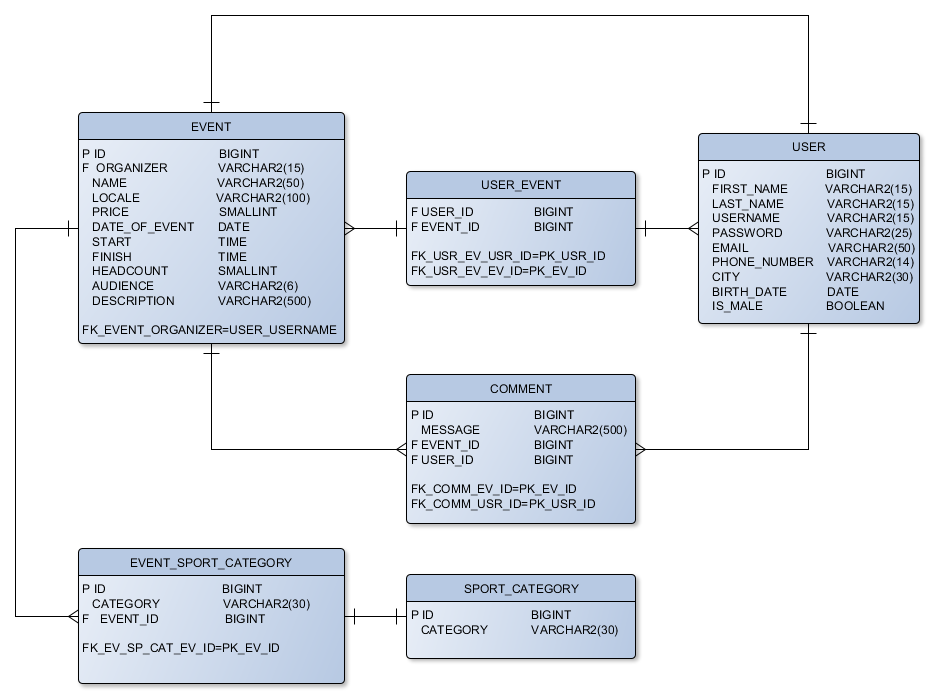
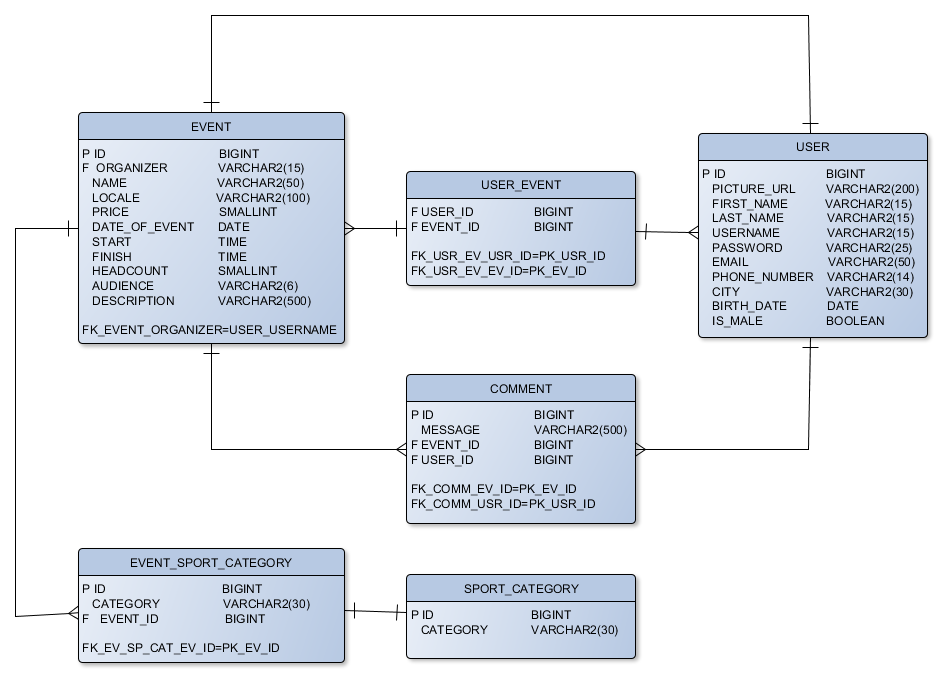
Database updated

diff --git a/sport_mates/src/main/java/app/sport_mates/controller/EventController.java b/sport_mates/src/main/java/app/sport_mates/controller/EventController.java
@@ -1,0 +1,81 @@
+package app.sport_mates.controller;
+
+import org.springframework.web.bind.annotation.RestController;
+import org.springframework.web.bind.annotation.RequestBody;
+import org.springframework.web.bind.annotation.RequestMapping;
+import org.springframework.beans.factory.annotation.Autowired;
+import org.springframework.web.bind.annotation.RequestMethod;
+import app.sport_mates.model.Event;
+import app.sport_mates.service.EventService;
+import app.sport_mates.util.Response;
+import java.sql.Date;
+import java.sql.Time;
+import java.util.Optional;
+
+class NewEvent {
+    private String name;
+    private String locale;
+    private short price;
+    private Date dateOfEvent;
+    private Time start;
+    private Time finish;
+    private short headcount;
+    private String audience;
+    private String description;
+
+    public String getName() {
+        return name;
+    }
+    
+    public String getLocale() {
+        return locale;
+    }
+
+    public short getPrice() {
+        return price;
+    }
+
+    public Date getDateOfEvent() {
+        return dateOfEvent;
+    }
+
+    public Time getStart() {
+        return start;
+    }
+
+    public Time getFinish() {
+        return finish;
+    }
+
+    public short getHeadcount() {
+        return headcount;
+    }
+
+    public String getAudience() {
+        return audience;
+    }
+    
+    public String getDescription() {
+        return description;
+    }
+}
+
+@RestController
+@RequestMapping("/event")
+public class EventController{
+    
+    @Autowired()
+    private EventService eventService;
+
+    @RequestMapping(value= "/add", method=RequestMethod.POST, consumes="application/json")
+    public Response<String> add(@RequestBody NewEvent newEvent)
+    {
+        Optional<Event> optionalEvent = eventService.addNewEvent(newEvent.getName(), newEvent.getLocale(),
+                                                           newEvent.getPrice(), newEvent.getDateOfEvent(), 
+                                                           newEvent.getStart(), newEvent.getFinish(),
+                                                           newEvent.getHeadcount(), newEvent.getAudience(),
+                                                           newEvent.getDescription());
+                                        
+        return optionalEvent.isPresent() ? Response.ok("Event: ok") : Response.error("Event: error");
+    }
+}

diff --git a/sport_mates/src/main/java/app/sport_mates/controller/CommentController.java b/sport_mates/src/main/java/app/sport_mates/controller/CommentController.java
@@ -1,0 +1,50 @@
+package app.sport_mates.controller;
+
+import org.springframework.web.bind.annotation.RestController;
+import org.springframework.web.bind.annotation.RequestBody;
+import org.springframework.web.bind.annotation.RequestMapping;
+import org.springframework.beans.factory.annotation.Autowired;
+import org.springframework.web.bind.annotation.RequestMethod;
+
+import app.sport_mates.model.Comment;
+import app.sport_mates.model.Event;
+import app.sport_mates.model.User;
+import app.sport_mates.service.CommentService;
+import app.sport_mates.util.Response;
+import java.util.Optional;
+
+class NewComment {
+    private String message;
+    private Event eventId;
+    private User userId;
+
+    public String getMessage() {
+        return message;
+    }
+
+    public Event getEventId() {
+        return eventId;
+    }
+
+    public User getUserId() {
+        return userId;
+    }
+}
+
+@RestController
+@RequestMapping("/comment")
+public class CommentController{
+    
+    @Autowired()
+    private CommentService commentService;
+
+    @RequestMapping(value= "/add", method=RequestMethod.POST, consumes="application/json")
+    public Response<String> add(@RequestBody NewComment newComment)
+    {
+        Optional<Comment> optionalComment = commentService.addNewComment(newComment.getMessage(),
+                                                                         newComment.getEventId(),
+                                                                         newComment.getUserId());
+                                        
+        return optionalComment.isPresent() ? Response.ok("Comment: ok") : Response.error("Comment: error");
+    }
+}

diff --git a/sport_mates/src/main/java/app/sport_mates/service/EventService.java b/sport_mates/src/main/java/app/sport_mates/service/EventService.java
@@ -1,0 +1,44 @@
+package app.sport_mates.service;
+
+import org.springframework.stereotype.Service;
+import org.springframework.beans.factory.annotation.Autowired;
+
+import app.sport_mates.repository.EventRepository;
+import app.sport_mates.model.Event;
+
+import java.sql.Date;
+import java.sql.Time;
+import java.util.Optional;
+
+@Service
+public class EventService {
+
+    @Autowired()
+    private EventRepository eventRepository;
+
+    public Optional<Event> addNewEvent(String name,
+                                      String locale,
+                                      short price,
+                                      Date dateOfEvent,
+                                      Time start,
+                                      Time finish,
+                                      short headcount,
+                                      String audience,
+                                      String description){
+        Event event = new Event();
+
+        event.setName(name);
+        event.setLocale(locale);
+        event.setPrice(price);
+        event.setDateOfEvent(dateOfEvent);
+        event.setStart(start);
+        event.setFinish(finish);
+        event.setHeadcount(headcount);
+        event.setAudience(audience);
+        event.setDescription(description);
+        
+        eventRepository.save(event);
+
+        return Optional.of(event);
+    }
+}

diff --git a/sport_mates/src/main/java/app/sport_mates/controller/UserController.java b/sport_mates/src/main/java/app/sport_mates/controller/UserController.java
@@ -77,7 +77,7 @@ class RegUser {
 @RequestMapping("/user")
 public class UserController{
 
-    @Autowired(required = true)
+    @Autowired()
     private UserService userService;
 
     @RequestMapping(value= "/login", method=RequestMethod.POST, consumes="application/json")
@@ -87,11 +87,10 @@ public class UserController{
 
         if(optionalUser.isPresent()){
             User loggedUser = optionalUser.get();
-
             return Response.ok(loggedUser); 
         }
 
-        return Response.error("Helytelen felhasznalonev vagy jelszo");
+        return Response.error("User: error - authentication");
     }
 
     @RequestMapping(value= "/register", method=RequestMethod.POST, consumes="application/json")
@@ -107,6 +106,6 @@ public class UserController{
             return Response.ok(user); 
         }
 
-        return Response.error("A felhasznalonev mar hasznalatban van");
+        return Response.error("User: error - unique");
     }
 }

diff --git a/sport_mates/src/main/java/app/sport_mates/service/CommentService.java b/sport_mates/src/main/java/app/sport_mates/service/CommentService.java
@@ -1,0 +1,31 @@
+package app.sport_mates.service;
+
+import org.springframework.stereotype.Service;
+import org.springframework.beans.factory.annotation.Autowired;
+
+import app.sport_mates.repository.CommentRepository;
+import app.sport_mates.model.Comment;
+import app.sport_mates.model.Event;
+import app.sport_mates.model.User;
+import java.util.Optional;
+
+@Service
+public class CommentService {
+
+    @Autowired()
+    private CommentRepository commentRepository;
+
+    public Optional<Comment> addNewComment(String message,
+                                         Event eventId,
+                                         User userId){
+        Comment comment = new Comment();
+
+        comment.setMessage(message);
+        comment.setEventId(eventId);
+        comment.setUserId(userId);
+        
+        commentRepository.save(comment);
+
+        return Optional.of(comment);
+    }
+}

diff --git a/sport_mates/src/main/java/app/sport_mates/model/Event.java b/sport_mates/src/main/java/app/sport_mates/model/Event.java
@@ -136,4 +136,40 @@ public class Event {
     public Set<User> getUsers() {
         return users;
     }
+
+    public void setName(String name) {
+        this.name = name;
+    }
+
+    public void setLocale(String locale) {
+        this.locale = locale;
+    }
+
+    public void setPrice(short price) {
+        this.price = price;
+    }
+    
+    public void setDateOfEvent(Date dateOfEvent) {
+        this.dateOfEvent = dateOfEvent;
+    }
+
+    public void setStart(Time start) {
+        this.start = start;
+    }
+
+    public void setFinish(Time finish) {
+        this.finish = finish;
+    }
+
+    public void setHeadcount(short headcount) {
+        this.headcount = headcount;
+    }
+
+    public void setAudience(String audience) {
+        this.audience = audience;
+    }
+
+    public void setDescription(String description) {
+        this.description = description;
+    }
 }

diff --git a/sport_mates/src/main/java/app/sport_mates/repository/EventRepository.java b/sport_mates/src/main/java/app/sport_mates/repository/EventRepository.java
@@ -4,7 +4,19 @@ import org.springframework.stereotype.Repository;
 import org.springframework.data.repository.CrudRepository;
 import app.sport_mates.model.Event;
 
+import java.sql.Date;
+import java.sql.Time;
+import java.util.Optional;
+
 @Repository
 public interface EventRepository extends CrudRepository<Event,Integer>{
+    Optional<Event> findByName(String name);
+    Optional<Event> findByLocale(String locale);
+    Optional<Event> findByPrice(short price);
+    Optional<Event> findByDateOfEvent(Date event);
+    Optional<Event> findByStart(Time start);
+    Optional<Event> findByFinish(Time finish);
+    Optional<Event> findByHeadCount(short headCount);
+    Optional<Event> findByAudience(String audience);
     Iterable<Event> findAll(); 
 }

diff --git a/sport_mates/src/main/java/app/sport_mates/repository/UserRepository.java b/sport_mates/src/main/java/app/sport_mates/repository/UserRepository.java
@@ -5,11 +5,18 @@ import org.springframework.stereotype.Repository;
 import org.springframework.data.repository.CrudRepository;
 import app.sport_mates.model.User;
 
+import java.sql.Date;
 import java.util.Optional;
 
 @Repository
 public interface UserRepository extends CrudRepository<User,Integer>{
+    Optional<User> findByFirstName(String firstName);
+    Optional<User> findByLastName(String lastName);
     Optional<User> findByUsername(String username);
     Optional<User> findByEmail(String email);
+    Optional<User> findByPhoneNumber(String phoneNumber);
+    Optional<User> findByCity(String city);
+    Optional<User> findByBirthDate(Date birthDate);
+    Optional<User> findByIsMale(boolean isMale);
     Iterable<User> findAll(); 
 }

diff --git a/sport_mates/src/main/java/app/sport_mates/repository/EventSportCategoryRepository.java b/sport_mates/src/main/java/app/sport_mates/repository/EventSportCategoryRepository.java
@@ -1,10 +1,18 @@
 package app.sport_mates.repository;
 
 import org.springframework.stereotype.Repository;
+
+import java.util.Optional;
+
 import org.springframework.data.repository.CrudRepository;
+
+import app.sport_mates.model.Event;
 import app.sport_mates.model.EventSportCategory;
+import app.sport_mates.model.SportCategory;
 
 @Repository
 public interface EventSportCategoryRepository extends CrudRepository<EventSportCategory,Integer>{
+    Optional<EventSportCategory> findByCategory(SportCategory category);
+    Optional<EventSportCategory> findByEventId(Event eventId);
     Iterable<EventSportCategory> findAll(); 
 }

diff --git a/sport_mates/src/main/java/app/sport_mates/repository/CommentRepository.java b/sport_mates/src/main/java/app/sport_mates/repository/CommentRepository.java
@@ -1,10 +1,17 @@
 package app.sport_mates.repository;
 
 import org.springframework.stereotype.Repository;
+
+import java.util.Optional;
+
 import org.springframework.data.repository.CrudRepository;
 import app.sport_mates.model.Comment;
+import app.sport_mates.model.Event;
+import app.sport_mates.model.User;
 
 @Repository
 public interface CommentRepository extends CrudRepository<Comment,Integer>{
+    Optional<Comment> findByEventId(Event eventId);
+    Optional<Comment> findByUserId(User userId);
     Iterable<Comment> findAll(); 
 }

diff --git a/sport_mates/src/main/java/app/sport_mates/model/Comment.java b/sport_mates/src/main/java/app/sport_mates/model/Comment.java
@@ -65,4 +65,12 @@ public class Comment {
     public void setMessage(String message) {
         this.message = message;
     }
+    
+    public void setEventId(Event eventId) {
+        this.eventId = eventId;
+    }
+
+    public void setUserId(User userId) {
+        this.userId = userId;
+    }
 }

diff --git a/sport_mates/src/main/java/app/sport_mates/service/UserService.java b/sport_mates/src/main/java/app/sport_mates/service/UserService.java
@@ -11,7 +11,7 @@ import java.util.Optional;
 @Service
 public class UserService {
 
-    @Autowired(required = true)
+    @Autowired()
     private UserRepository userRepository;
 
     public Optional<User> login(String identifier, String password){
